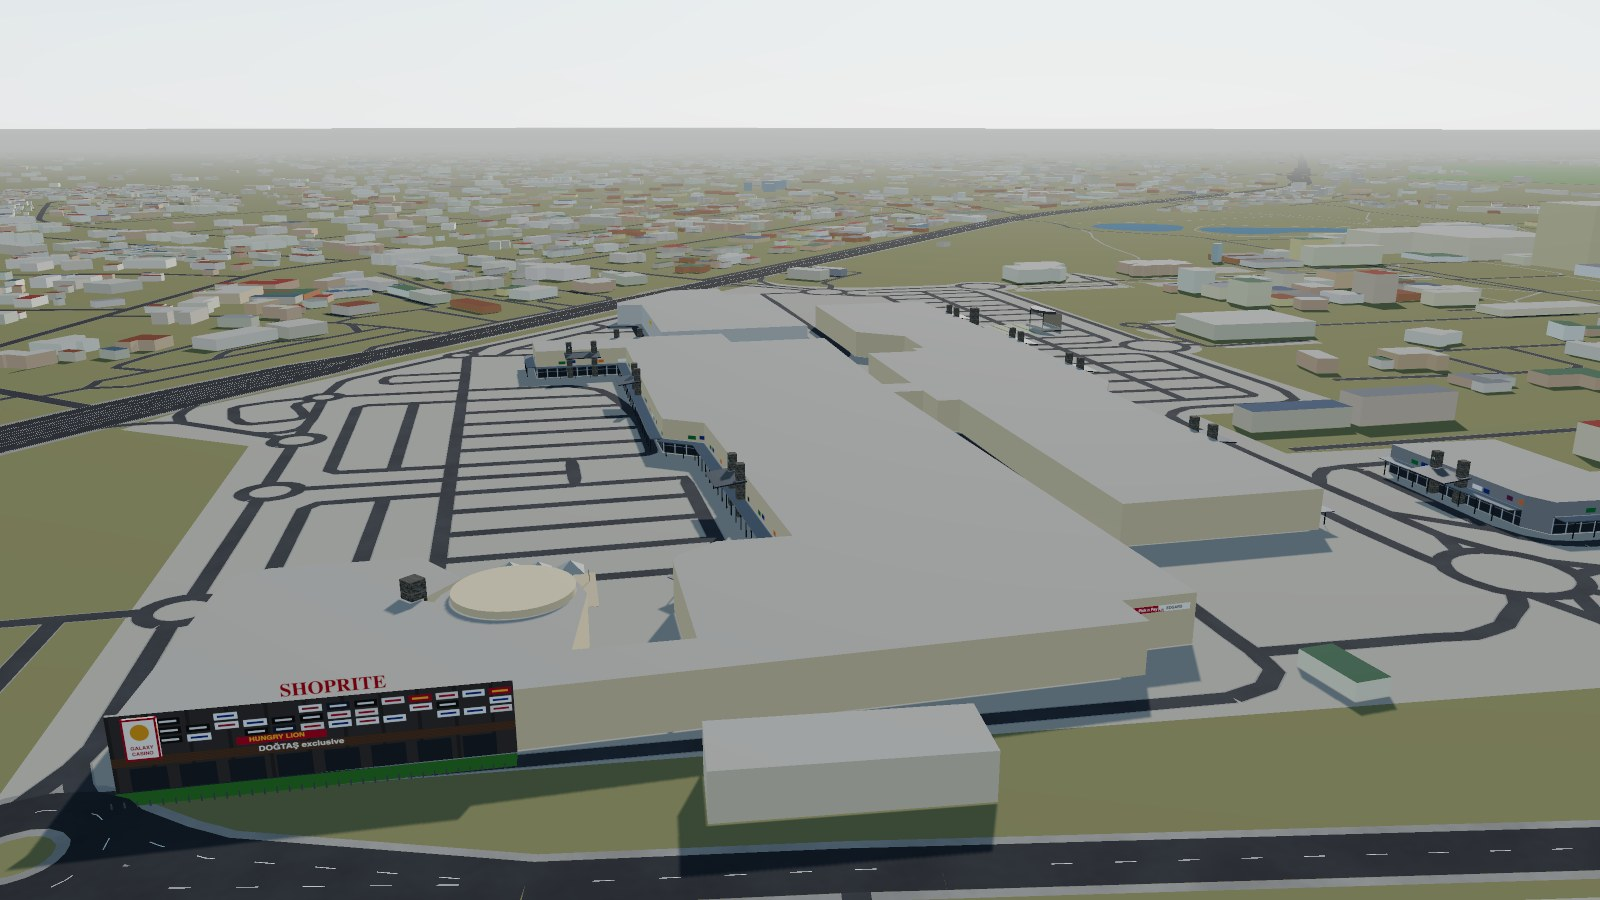
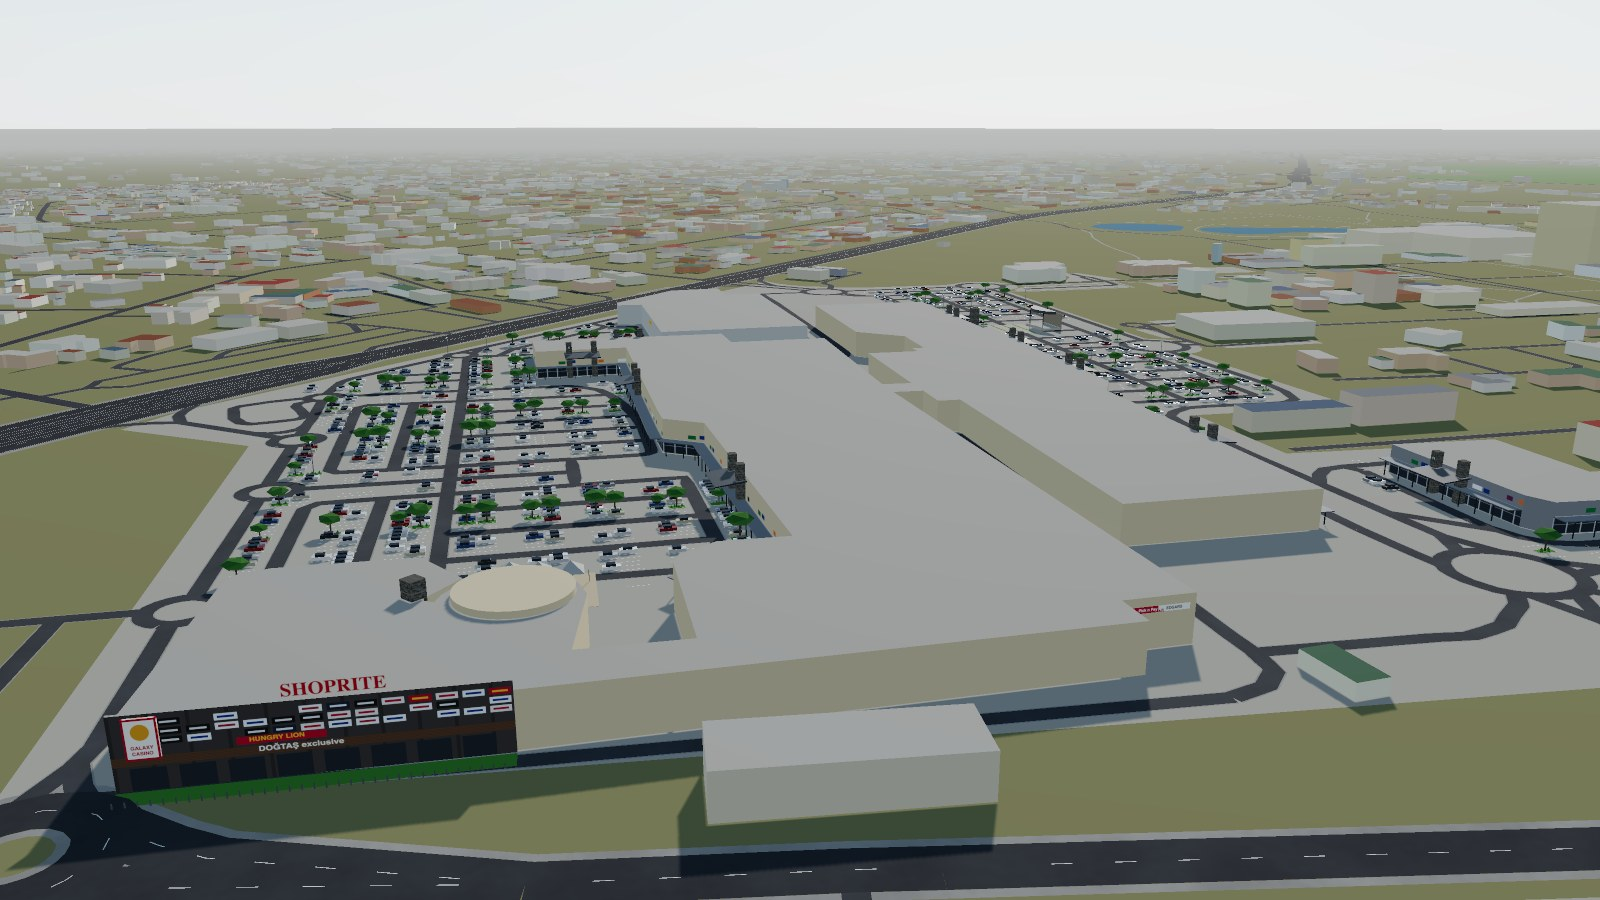
East Park: car parks with bays, planted islands, trees, lamps and cars
Lay out the car parks on the mall's axes inside the OSM car parks: bay
lines, kerbed islands with iris and flat-crowned shade trees or twin lamp
posts, and parked cars. Everything is kept off OSM's drives, aisles and
roundabouts, loaded from data/landmarks/east-park-roads.json.

diff --git a/src/landmarks/east-park.js b/src/landmarks/east-park.js
@@ -418,12 +418,148 @@ export function buildEastPark() {
     put(a, 'low');
   }
 
+  // the car parks load their layout once the road data arrives
+  const lamps = [];
+  buildYard(group, lamps);
+
   const flat = (pts) => pts.flat();
   return {
     group,
     footprints: [flat(MALL), flat(STRIP_W), flat(STRIP_E), flat(BUILDERS)],
     setNight(n) {
       for (const m of glows) m.emissiveIntensity = n * 0.6;
+      for (const m of lamps) m.emissiveIntensity = n * 2;
     },
   };
+}
+
+// ---------- the yard: car parks, planted islands, trees, lamps, cars ----------
+// Laid out on the mall's axes inside the OSM car parks. Nothing is placed on
+// a road: OSM's roads and drives here (data/landmarks/east-park-roads.json,
+// ODbL) are kept clear by their width plus a margin.
+const AX = [0.612, -0.791], AY = [0.791, 0.612]; // along the mall, across it
+const BUILDINGS = [MALL, STRIP_W, STRIP_E, BUILDERS];
+
+async function buildYard(group, lamps) {
+  let roads;
+  try {
+    roads = await (await fetch(new URL('../../data/landmarks/east-park-roads.json', import.meta.url))).json();
+  } catch {
+    return;
+  }
+  const segs = [];
+  for (const [w, ...c] of roads) for (let i = 2; i < c.length; i += 2) segs.push([c[i - 2], c[i - 1], c[i], c[i + 1], w / 2]);
+  const clearOfRoads = (x, z, r) => segs.every(([ax, az, bx, bz, hw]) => {
+    const dx = bx - ax, dz = bz - az, l2 = dx * dx + dz * dz || 1;
+    const t = Math.max(0, Math.min(1, ((x - ax) * dx + (z - az) * dz) / l2));
+    return Math.hypot(x - ax - t * dx, z - az - t * dz) > hw + r;
+  });
+  const free = (x, z, r) => PARKS.some((p) => inside(p, x, z)) && !BUILDINGS.some((b) => inside(b, x, z)) &&
+    [[r, 0], [-r, 0], [0, r], [0, -r]].every(([dx, dz]) => !BUILDINGS.some((b) => inside(b, x + dx, z + dz))) && clearOfRoads(x, z, r);
+  // KEG court and the amphitheatre keep their own ground
+  const reserved = (x, z) => Math.hypot(x - (KEG.x + 20), z - (KEG.z - 18)) < 18 || Math.hypot(x - AMPHI.x, z - AMPHI.z) < 30;
+
+  const lines = [], islands = [], trees = [], cars = [], poles = [];
+  const r = rng(77);
+  // project the car parks onto the axes to get the ranges to sweep
+  const all = PARKS.flat();
+  const us = all.map(([x, z]) => x * AX[0] + z * AX[1]), vs = all.map(([x, z]) => x * AY[0] + z * AY[1]);
+  const [u0, u1, v0, v1] = [Math.min(...us), Math.max(...us), Math.min(...vs), Math.max(...vs)];
+  const at = (u, v) => [u * AX[0] + v * AY[0], u * AX[1] + v * AY[1]];
+  const MODULE = 16.5, BAY = 2.6;
+  for (let v = v0; v < v1; v += MODULE) {
+    for (const [side, mid] of [[0, 2.5], [1, 14]]) { // two rows of 5 m bays, a 6.5 m aisle between
+      let k = 0;
+      for (let u = u0; u < u1; u += BAY, k++) {
+        const [x, z] = at(u + BAY / 2, v + mid);
+        if (reserved(x, z)) continue;
+        if (k % 11 === 5 && free(x, z, 2.6)) { // a planted island every 11 bays
+          islands.push([x, z]);
+          if (k % 33 === 5 && side === 0) poles.push([x, z]);
+          else trees.push([x, z, 0.8 + r() * 0.5]);
+          continue;
+        }
+        if (!free(x, z, 1.6)) continue;
+        const [lx, lz] = at(u, v + mid);
+        if (free(lx, lz, 0.4)) lines.push([lx, lz]);
+        if (r() < 0.42) cars.push([x, z, r()]);
+      }
+    }
+  }
+
+  const m4 = new THREE.Matrix4(), q = new THREE.Quaternion(), s3 = new THREE.Vector3(), p3 = new THREE.Vector3();
+  const heading = Math.atan2(AY[0], AY[1]); // local +z along the bay (across the mall)
+  const place = (mesh, i, x, y, z, rot = heading, sx = 1, sy = 1, sz = 1) => {
+    q.setFromAxisAngle(new THREE.Vector3(0, 1, 0), rot);
+    mesh.setMatrixAt(i, m4.compose(p3.set(x, y, z), q, s3.set(sx, sy, sz)));
+  };
+  const add = (mesh, conf) => group.add(tag(mesh, conf));
+
+  // white bay lines
+  const paint = new THREE.MeshStandardMaterial({ color: 0xe9e7e0, roughness: 0.8 });
+  const lm = new THREE.InstancedMesh(new THREE.BoxGeometry(0.12, 0.02, 4.8), paint, lines.length);
+  lines.forEach(([x, z], i) => place(lm, i, x, 0.075, z));
+  add(lm, 'low');
+
+  // planted islands: a kerb, grass and iris clumps
+  const kerb = new THREE.MeshStandardMaterial({ color: 0xc7c2b8, roughness: 0.9 });
+  const grass = new THREE.MeshStandardMaterial({ color: 0x5f8f38, roughness: 1 });
+  const iris = new THREE.MeshStandardMaterial({ color: 0x4f8a36, roughness: 1, flatShading: true });
+  const ik = new THREE.InstancedMesh(new THREE.BoxGeometry(2.4, 0.18, 4.8), kerb, islands.length);
+  const ig = new THREE.InstancedMesh(new THREE.BoxGeometry(2.1, 0.22, 4.5), grass, islands.length);
+  const clumpGeo = new THREE.ConeGeometry(0.45, 0.8, 5);
+  const ic = new THREE.InstancedMesh(clumpGeo, iris, islands.length * 4);
+  islands.forEach(([x, z], i) => {
+    place(ik, i, x, 0.09, z);
+    place(ig, i, x, 0.11, z);
+    for (let k = 0; k < 4; k++) {
+      const d = -1.5 + k;
+      place(ic, i * 4 + k, x + AY[0] * d + AX[0] * 0.5 * (k % 2 ? 1 : -1), 0.6, z + AY[1] * d + AX[1] * 0.5 * (k % 2 ? 1 : -1), heading + k);
+    }
+  });
+  add(ik, 'med');
+  add(ig, 'med');
+  add(ic, 'low');
+
+  // shade trees with flat, spreading crowns (as in the photos)
+  const bark = new THREE.MeshStandardMaterial({ color: 0x5d4b3a, roughness: 1 });
+  const leaf = new THREE.MeshStandardMaterial({ color: 0x4b7a34, roughness: 1, flatShading: true });
+  const tt = new THREE.InstancedMesh(new THREE.CylinderGeometry(0.14, 0.22, 3.6, 6), bark, trees.length);
+  const tc = new THREE.InstancedMesh(new THREE.IcosahedronGeometry(2.6, 0), leaf, trees.length);
+  trees.forEach(([x, z, s], i) => {
+    place(tt, i, x, 1.8 * s, z, 0, s, s, s);
+    place(tc, i, x, 4.1 * s, z, i, 1.1 * s, 0.5 * s, 1.1 * s);
+  });
+  add(tt, 'low');
+  add(tc, 'low');
+
+  // twin-headed lamp posts
+  const steel = new THREE.MeshStandardMaterial({ color: 0x9aa0a6, roughness: 0.4, metalness: 0.6 });
+  const lampMat = new THREE.MeshStandardMaterial({ color: 0xf2f2ee, emissive: 0xfff1d6, emissiveIntensity: 0 });
+  lamps.push(lampMat);
+  const pp = new THREE.InstancedMesh(new THREE.CylinderGeometry(0.1, 0.15, 10, 8), steel, poles.length);
+  const ph = new THREE.InstancedMesh(new THREE.BoxGeometry(0.9, 0.18, 0.4), lampMat, poles.length * 2);
+  poles.forEach(([x, z], i) => {
+    place(pp, i, x, 5, z, 0);
+    place(ph, i * 2, x + AX[0] * 0.6, 9.9, z + AX[1] * 0.6);
+    place(ph, i * 2 + 1, x - AX[0] * 0.6, 9.9, z - AX[1] * 0.6);
+  });
+  add(pp, 'low');
+  add(ph, 'low');
+
+  // parked cars, mostly white, silver and grey
+  const body = new THREE.MeshStandardMaterial({ roughness: 0.35, metalness: 0.4 });
+  const glass = new THREE.MeshStandardMaterial({ color: 0x1d2530, roughness: 0.2, metalness: 0.4 });
+  const cb = new THREE.InstancedMesh(new THREE.BoxGeometry(1.75, 0.75, 4.3), body, cars.length);
+  const cc = new THREE.InstancedMesh(new THREE.BoxGeometry(1.55, 0.6, 2.2), glass, cars.length);
+  const palette = [0xf2f2f0, 0xf2f2f0, 0xf2f2f0, 0xc5c8cc, 0xc5c8cc, 0x8a8e93, 0x2b2d31, 0x8c1c1c, 0x2c4a7a, 0xb9b39f];
+  const col = new THREE.Color();
+  cars.forEach(([x, z, t], i) => {
+    const flip = t < 0.5 ? 0 : Math.PI;
+    place(cb, i, x, 0.62, z, heading + flip + (t - 0.5) * 0.08);
+    place(cc, i, x - AY[0] * 0.2, 1.3, z - AY[1] * 0.2, heading + flip);
+    cb.setColorAt(i, col.setHex(palette[Math.floor(t * 997) % palette.length]));
+  });
+  add(cb, 'low');
+  add(cc, 'low');
 }

diff --git a/docs/landmarks/east-park.md b/docs/landmarks/east-park.md
@@ -33,9 +33,12 @@ Model: `src/landmarks/east-park.js`.
 | Shoprite Select | stone sign pillar with the Shoprite logo on the north-east wing | medium |
 | South strips | charcoal-grey, 8.5 m, with the same canopies; Micmar and Sikale signs at the roundabout ends | medium |
 | Builders Warehouse | OSM outline, 10 m | medium |
+| Car parks | inside the OSM car parks, on the mall's axes: rows of 2.6 m bays with white lines either side of 6.5 m aisles; a planted island (kerb, grass, iris) every 11 bays with a flat-crowned shade tree or a twin-headed lamp post; ~40% of bays hold a parked car. Nothing is placed within a road's width + margin of OSM's drives and aisles (data/landmarks/east-park-roads.json) | medium (layout generated, not surveyed) |
 | Amphitheatre | stage under a curved roof over a lawn striped with paving, on the east lawn | low (position guessed) |
 
 ## Known gaps
+
+- The bay rows are laid out by rule on the mall's axes, so they do not match the painted bays one for one.
 
 - Entrance positions and numbers are placed by rule, not surveyed; the directory map was too small to read.
 - Individual shop signs are generic apart from Shoprite, Galaxy Casino, Hungry Lion, Doğtaş, Pick n Pay, Edgars, Keg, Micmar, Sikale and Builders.

diff --git a/data/tiles/README.md b/data/tiles/README.md
@@ -11,3 +11,5 @@ under the ODbL. Any map or scene produced from them must credit
 "© OpenStreetMap contributors".
 
 Rebuild them with `tools/osm_tiles.py` (see the main README).
+
+`data/landmarks/east-park-roads.json` holds the OpenStreetMap roads and drives around East Park Mall (widths and points in world metres), used to keep the car park layout off them; it is ODbL-derived like the tiles.
